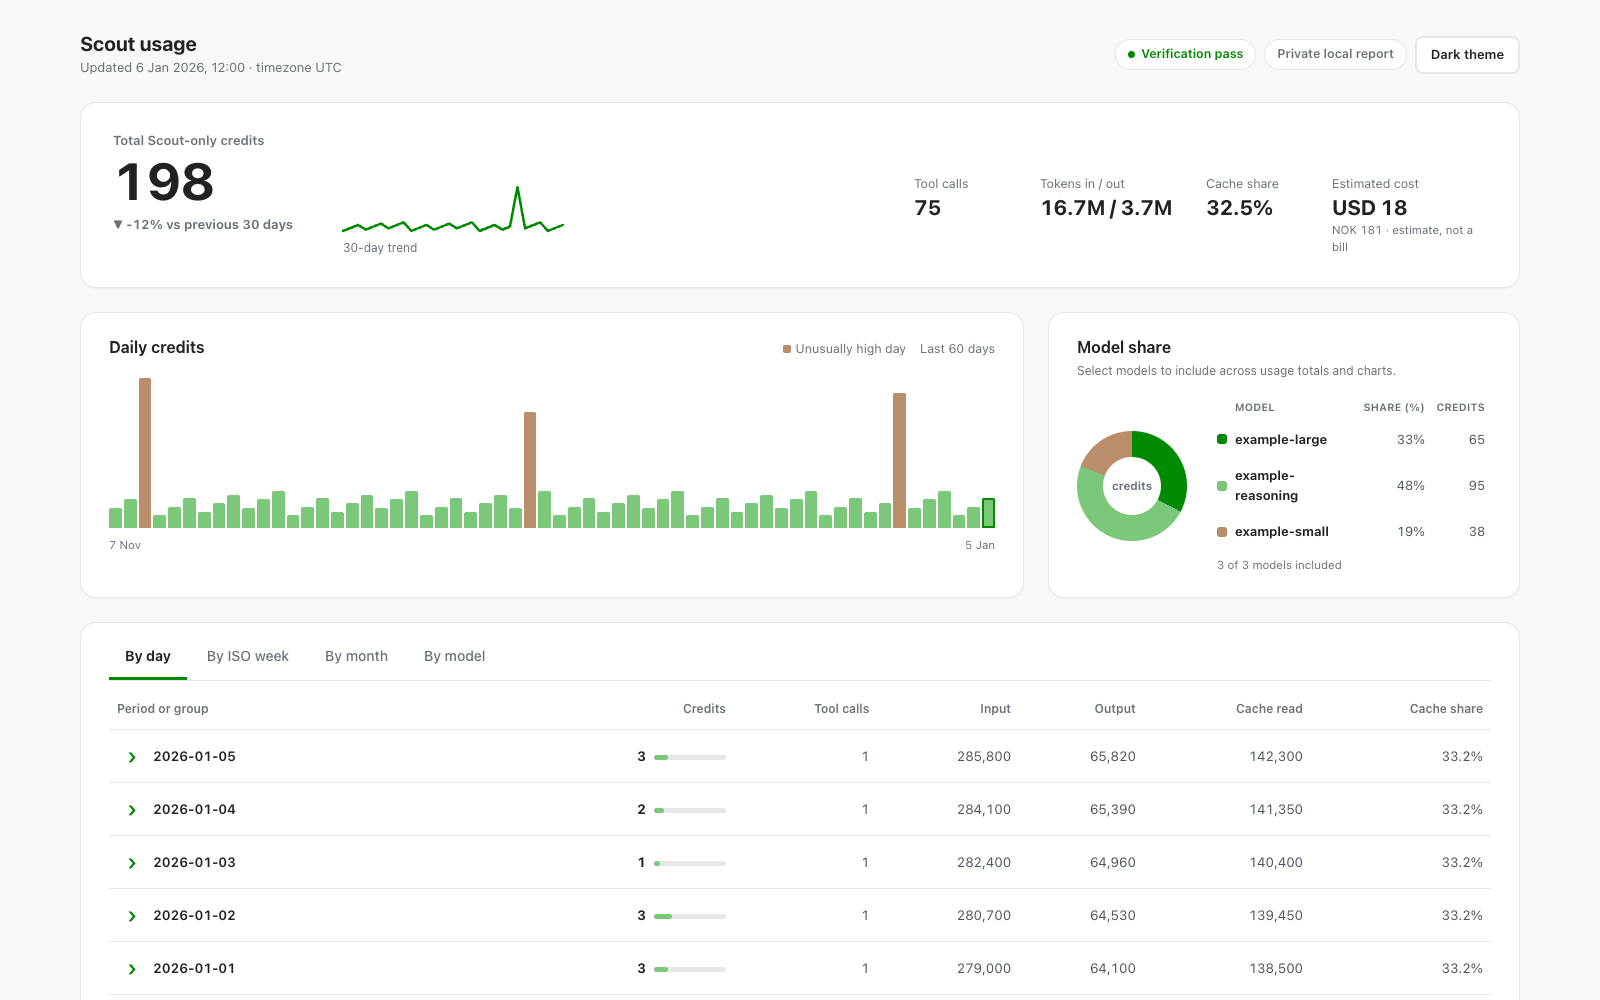
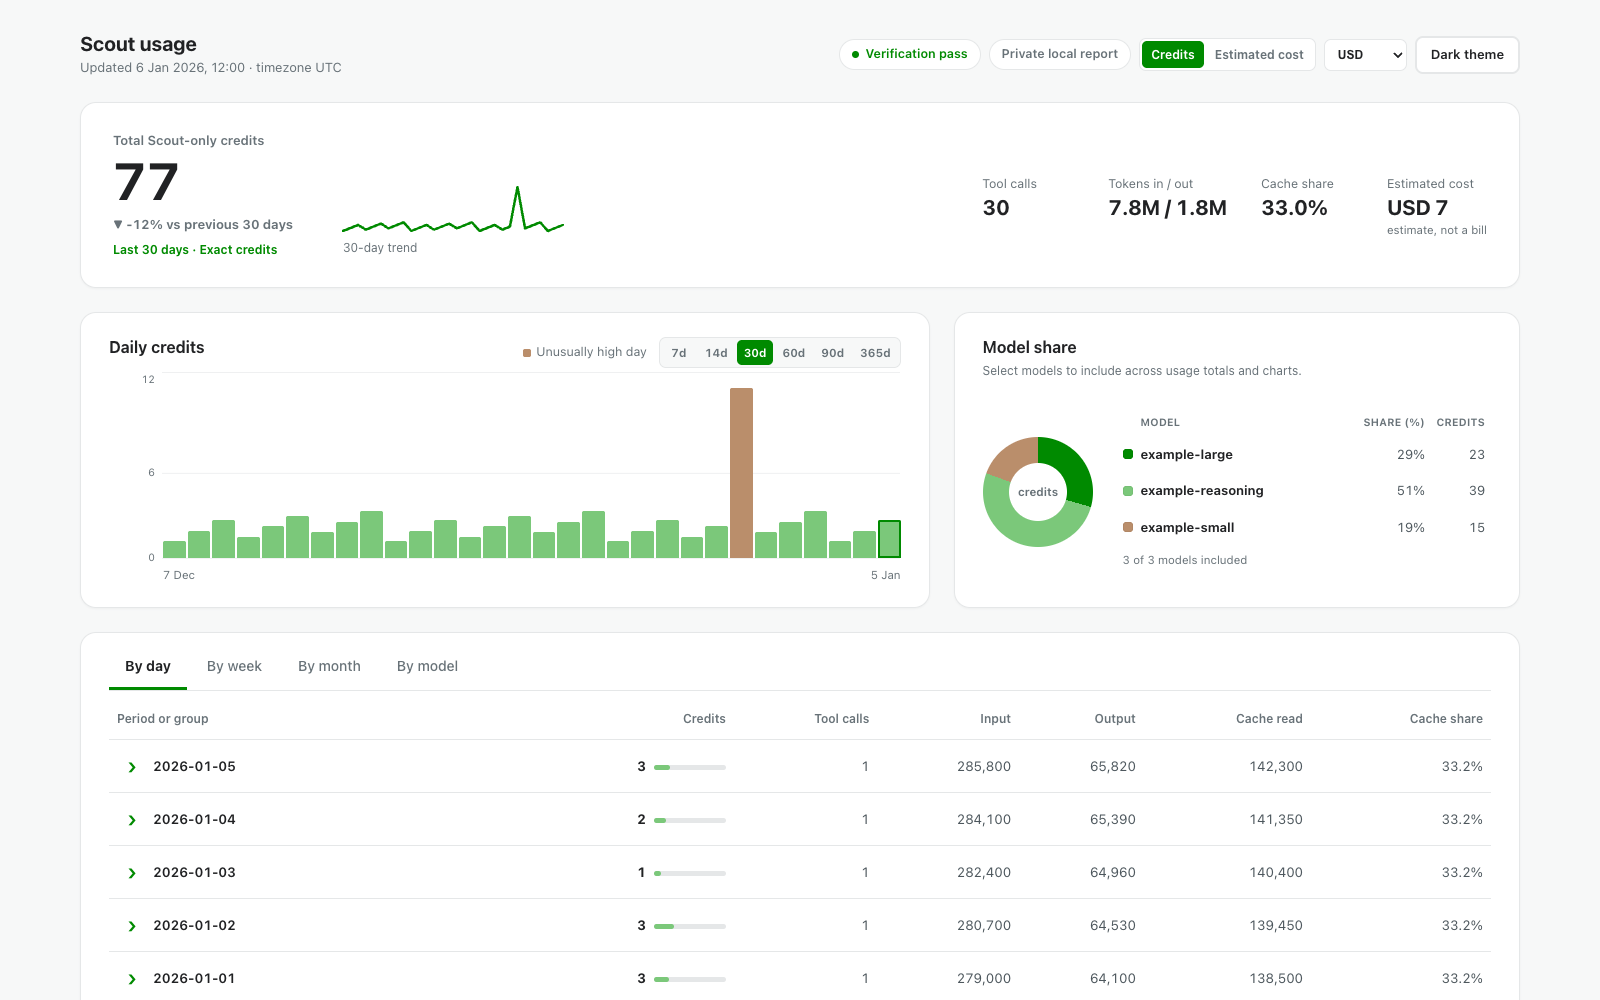
Refresh README for public launch

diff --git a/README.md b/README.md
@@ -1,10 +1,10 @@
 # Scout Usage Tracker
 
-See how many AI credits Microsoft Scout uses—locally, privately, and separately from your account-wide GitHub Copilot usage.
+Track Microsoft Scout's AI credit use locally, separately from account-wide GitHub Copilot usage.
 
-The tracker reads Scout's local ledger in read-only mode, retains a private SQLite history, and generates one standalone HTML dashboard. It sends no telemetry, starts no persistent or externally listening server, and needs no cloud account. On Windows, an explicitly requested `/cost` report can start the bounded `127.0.0.1` viewer described below.
+Scout Usage Tracker opens Scout's local ledger read-only, keeps a private SQLite history, and generates a standalone HTML dashboard. It sends no telemetry, needs no cloud account, and starts no persistent or externally listening server. The optional `/cost` skill reports usage inside Scout.
 
-**Desktop only:** Scout and this tracker run locally on Windows or macOS. There is no mobile installation or mobile dashboard workflow.
+**Desktop only:** Scout and this tracker run on the same Windows or macOS computer.
 
 ![Synthetic Scout Usage Tracker dashboard](docs/images/synthetic-dashboard-desktop.png)
 
@@ -14,7 +14,7 @@ The tracker reads Scout's local ledger in read-only mode, retains a private SQLi
 
 The same prompt works in **Microsoft Scout**, **Codex**, **Claude Code**, and the **GitHub Copilot app**. The agent must have local terminal and file access on the Windows or macOS computer where Scout is installed. A web-only or remote agent cannot install against Scout's local database and must never ask you to upload it.
 
-<details open>
+<details>
 <summary><strong>Copy this installation prompt</strong></summary>
 
 ```text
@@ -61,14 +61,14 @@ conversation and use /cost.
 
 </details>
 
-## What you get
+## What it shows
 
 - Exact Scout-only credits from `total_nano_aiu`.
-- Daily, ISO-weekly, monthly, and per-model totals with interactive model filtering.
-- Independent AIU verification from `token_details_json`.
-- Incremental, duplicate-safe private history in SQLite.
-- A self-contained light/dark desktop dashboard that adapts to different window widths.
-- Optional `/cost`, anonymized chat drill-downs, estimates, and account-wide comparisons.
+- A Credits / Estimated cost switch across the dashboard.
+- USD plus manually configured currencies. The tracker never fetches exchange rates.
+- Daily, weekly, monthly, and per-model views with period and model filters.
+- Incremental private history and independent AIU verification.
+- Optional `/cost` reports and anonymized chat drill-downs.
 
 ## Install manually
 
@@ -145,13 +145,9 @@ Start a new Scout conversation if needed, then use:
 /cost open                    # open the local dashboard with the native launcher
 ```
 
-Bare `/cost` and bare `/cost FAQ` always return English output; an explicit language request may select Norwegian. The skill returns tracker stdout verbatim. `/cost` reports usage before the command itself and keeps the current chat as the default scope. It shows rounded credits for readability, model-level gross estimates, a short clickable **Usage tracker** link, and preserves the full final invitation to use `/cost FAQ`.
+Bare `/cost` and `/cost FAQ` return English. Ask explicitly for Norwegian when needed. `/cost` excludes the command itself and uses the current chat unless you request all chats. It reports rounded credits, model-level gross estimates, and a short **Usage tracker** link.
 
-Scout on Windows blocks private `file://` links outside its active workspace. On Windows, the installed skill therefore asks the tracker
-for an on-demand `http://127.0.0.1` link. It is protected by a random capability token, serves only the
-self-contained dashboard, writes no access log, and stops after the first successful dashboard fetch or five
-minutes. It never listens on an external interface and is not a scheduled task, service, or persistent background
-job. `/cost open` remains a native-launcher fallback if the short-lived link expires or cannot be started. macOS/POSIX keeps its existing direct local dashboard link and does not start the loopback viewer for normal `/cost` reports.
+Scout on Windows blocks private `file://` links outside its workspace. The skill can instead request a one-time link from a bounded `127.0.0.1` viewer. A random token protects the link. The viewer serves only the dashboard, keeps no access log, and stops after one successful fetch or five minutes. It never listens outside the computer. `/cost open` is the fallback. macOS/POSIX uses a direct local file link.
 
 The command never prints prompts, responses, raw session IDs, database paths, or token details. Calendar and automation surfaces sometimes omit `SESSION_ID`; the tracker fails closed unless exactly one uniquely fresh local session can be identified.
 
@@ -165,7 +161,7 @@ credits = Decimal(total_nano_aiu) / 1,000,000,000
 
 **GitHub Copilot totals are account-wide.** They can combine Scout with other Copilot clients, devices, and apps. The tracker never treats an Admin or billing total as Scout-only usage.
 
-**Currency values are estimates, not bills.** The dashboard starts with exact credits and lets the user switch the entire analytical view to Estimated cost. USD is always available; additional currencies use manually supplied rates and the tracker never fetches exchange rates. Costs never show decimals: USD and low-multiplier currencies round to whole units, while currencies where `1 USD >= 5` units round to the nearest 5. Included plan credits can make the billed amount lower or zero. Scout's token pricing is already reflected in exact nano-AIU; see GitHub's current [model pricing](https://docs.github.com/en/copilot/reference/copilot-billing/models-and-pricing) and [Copilot plans](https://docs.github.com/en/copilot/get-started/plans-for-github-copilot).
+**Currency values are estimates, not bills.** The dashboard starts with exact credits. Switch to Estimated cost to use USD or a manually configured currency. The tracker does not fetch exchange rates. It shows no cost decimals: low-multiplier currencies round to whole units, while currencies worth at least five units per USD round to the nearest five. Included credits may reduce the billed amount to zero. See GitHub's current [model pricing](https://docs.github.com/en/copilot/reference/copilot-billing/models-and-pricing) and [Copilot plans](https://docs.github.com/en/copilot/get-started/plans-for-github-copilot).
 
 ## Privacy
 
@@ -178,7 +174,7 @@ It never stores or sends:
 - Scout source paths or source row IDs;
 - telemetry or external analytics.
 
-On POSIX, runtime directories use mode `0700` and private files use `0600`. Windows does not pretend POSIX `chmod` supplies ACL protection; its installer instead canonicalizes managed paths, refuses reparse points, and requires them to remain strictly below the current user profile. Dashboard values are HTML-escaped and protected by a strict Content Security Policy.
+On POSIX, runtime directories use mode `0700` and private files use `0600`. On Windows, the installer canonicalizes managed paths, refuses reparse points, and keeps them under the current user profile. Dashboard values are HTML-escaped and protected by a strict Content Security Policy.
 
 Chat reporting is off by default. If enabled, drill-downs use local contextual labels such as `Chat-1`; they are not Scout titles or stable identities. Scout exposes no supported read-only API for its visible chat names, so the tracker does not decrypt or infer them.
 
@@ -231,7 +227,7 @@ On Windows, use `%USERPROFILE%\.local\bin\scout-usage.cmd` with the same argumen
 
 ## Optional GitHub billing snapshot
 
-Normal tracker commands make no external network requests. The `/cost` skill's explicitly documented loopback viewer is local-only; `github-sync` is the only explicit billing read and uses an existing authenticated `gh` CLI session:
+Normal tracker commands make no external network requests. The `/cost` loopback viewer is local-only. `github-sync` is the only billing read and uses an existing authenticated `gh` CLI session:
 
 ```sh
 ${HOME}/.local/bin/scout-usage github-sync --scope user --owner YOUR_LOGIN
@@ -239,7 +235,7 @@ ${HOME}/.local/bin/scout-usage github-sync --scope organization --owner YOUR_ORG
 ${HOME}/.local/bin/scout-usage render
 ```
 
-User scope excludes organization-managed usage. Organization and enterprise scopes require billing-administration permission. The tracker stores only an aggregate snapshot—never tokens, owners, raw responses, repositories, or model rows. See GitHub's [billing usage API](https://docs.github.com/en/rest/billing/usage?apiVersion=2026-03-10).
+User scope excludes organization-managed usage. Organization and enterprise scopes require billing-administration permission. The tracker stores only the aggregate snapshot. It does not store owners, raw responses, repositories, model rows, or token details. See GitHub's [billing usage API](https://docs.github.com/en/rest/billing/usage?apiVersion=2026-03-10).
 
 ## Optional automatic refresh on macOS
 
@@ -317,7 +313,7 @@ Only enumerated tracker-owned paths are removed; unsafe or unowned locations are
 
 ## Windows verification status
 
-Windows support was tested on an ARM64 Windows OS with native ARM64 Windows PowerShell 5.1. An official, checksum-verified portable CPython 3.13.13 ARM64 build (64-bit) with SQLite 3.50.4 ran the original 104-test Windows-support suite successfully, with 11 skips: eight because POSIX `sh` was unavailable and three because the embeddable package lacked IANA timezone data. CPython 3.11.9 AMD64 with SQLite 3.45.1 ran that suite successfully under x64 emulation, with eight POSIX `sh` skips. The later loopback hyperlink and `/cost FAQ` footer change ran the expanded 108-test suite under AMD64 Python on the ARM64 host, with eight POSIX `sh` skips; that incremental change was not rerun with native ARM64 Python. The default Windows local timezone and DST behavior are verified; when timezone data is unavailable, an explicitly configured IANA timezone fails with actionable guidance. Physical x64 Windows hardware, PowerShell 7, the macOS lifecycle, and the actual Scout in-app hyperlink click remain unverified. The loopback viewer itself was exercised through the installed runtime with synthetic HTML. The safe Windows `os.startfile` construction and error handling are unit-tested. Automatic refresh remains macOS-only.
+Windows ARM64 was tested with native CPython 3.13 and with AMD64 CPython 3.11 under x64 emulation. The Windows lifecycle and loopback viewer pass their automated tests. Expected skips cover POSIX-only shell tests and IANA timezone data missing from some embeddable Python builds. Physical x64 Windows hardware, PowerShell 7, and the actual Scout in-app hyperlink click remain unverified. Automatic refresh remains macOS-only.
 
 ## Verify the calculation
 
